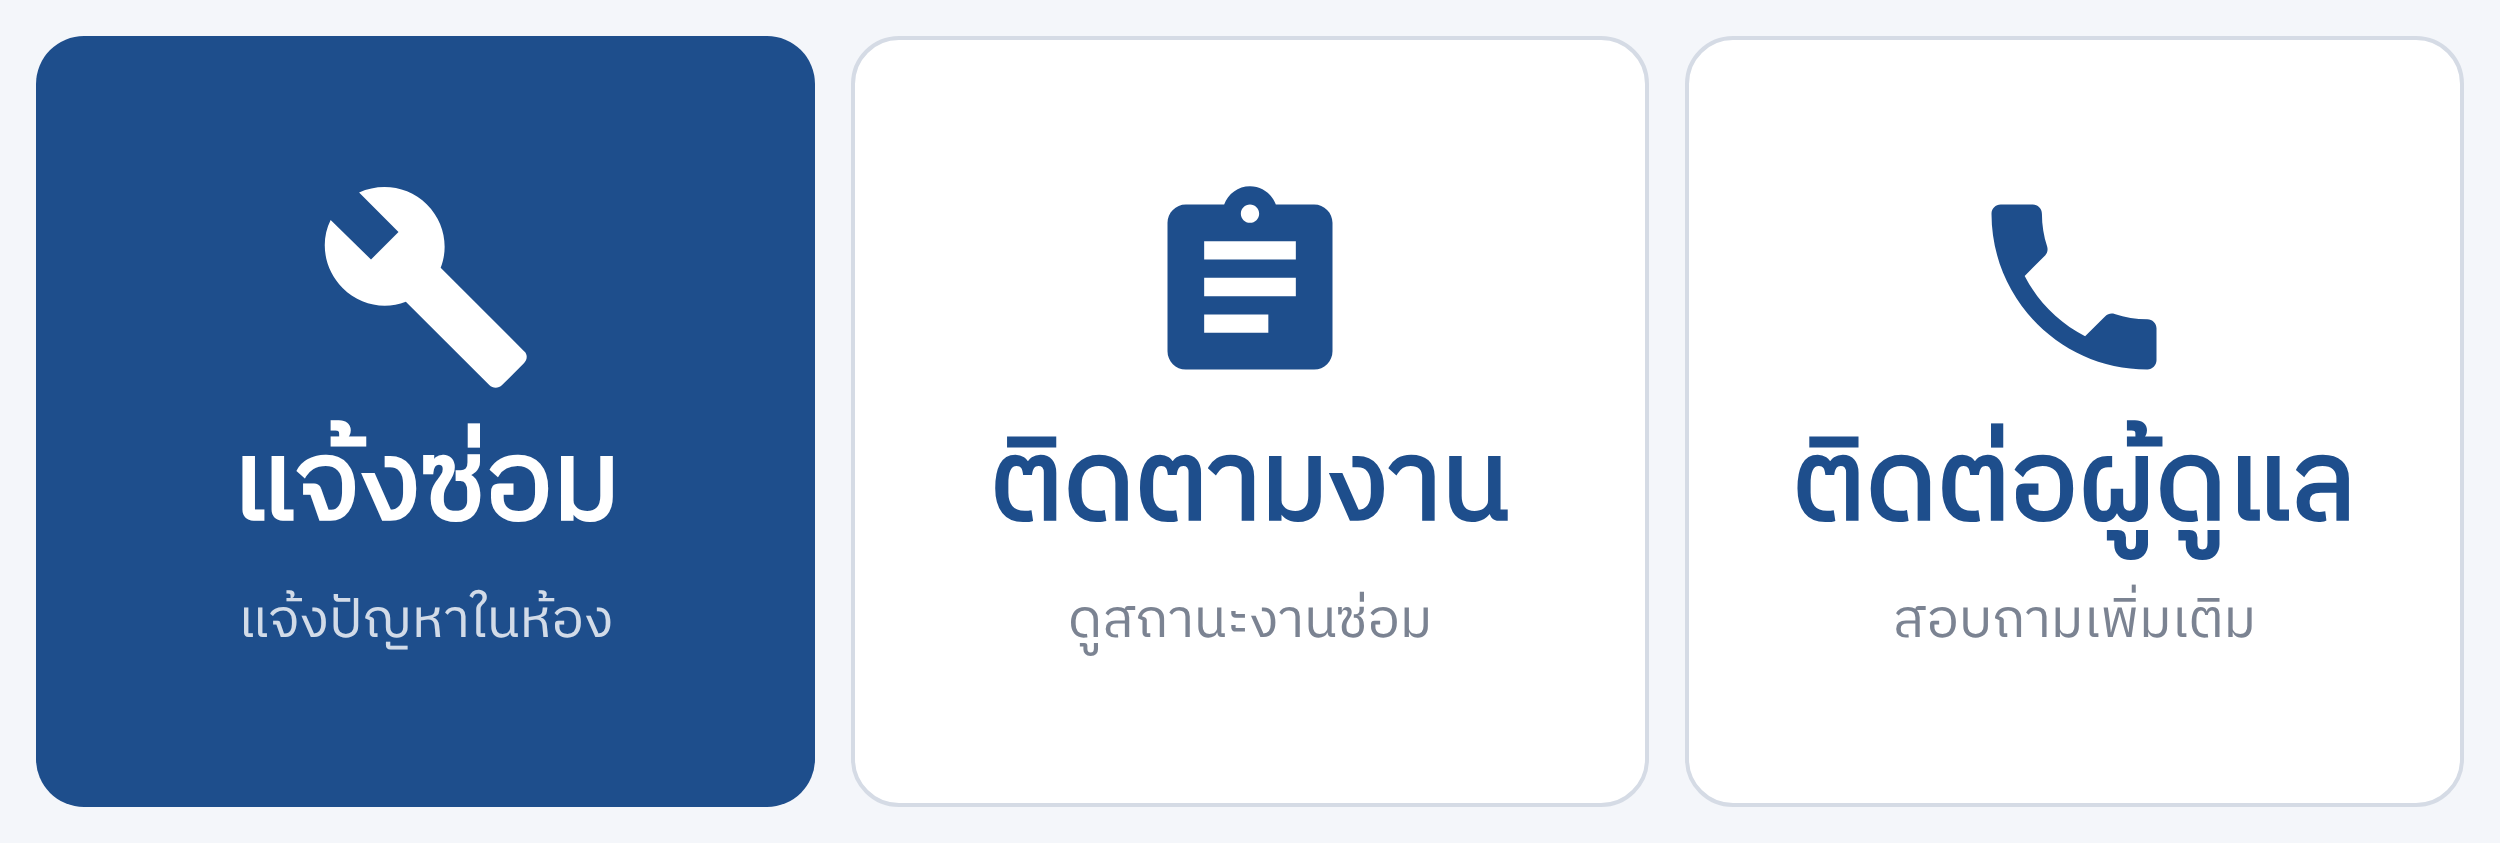
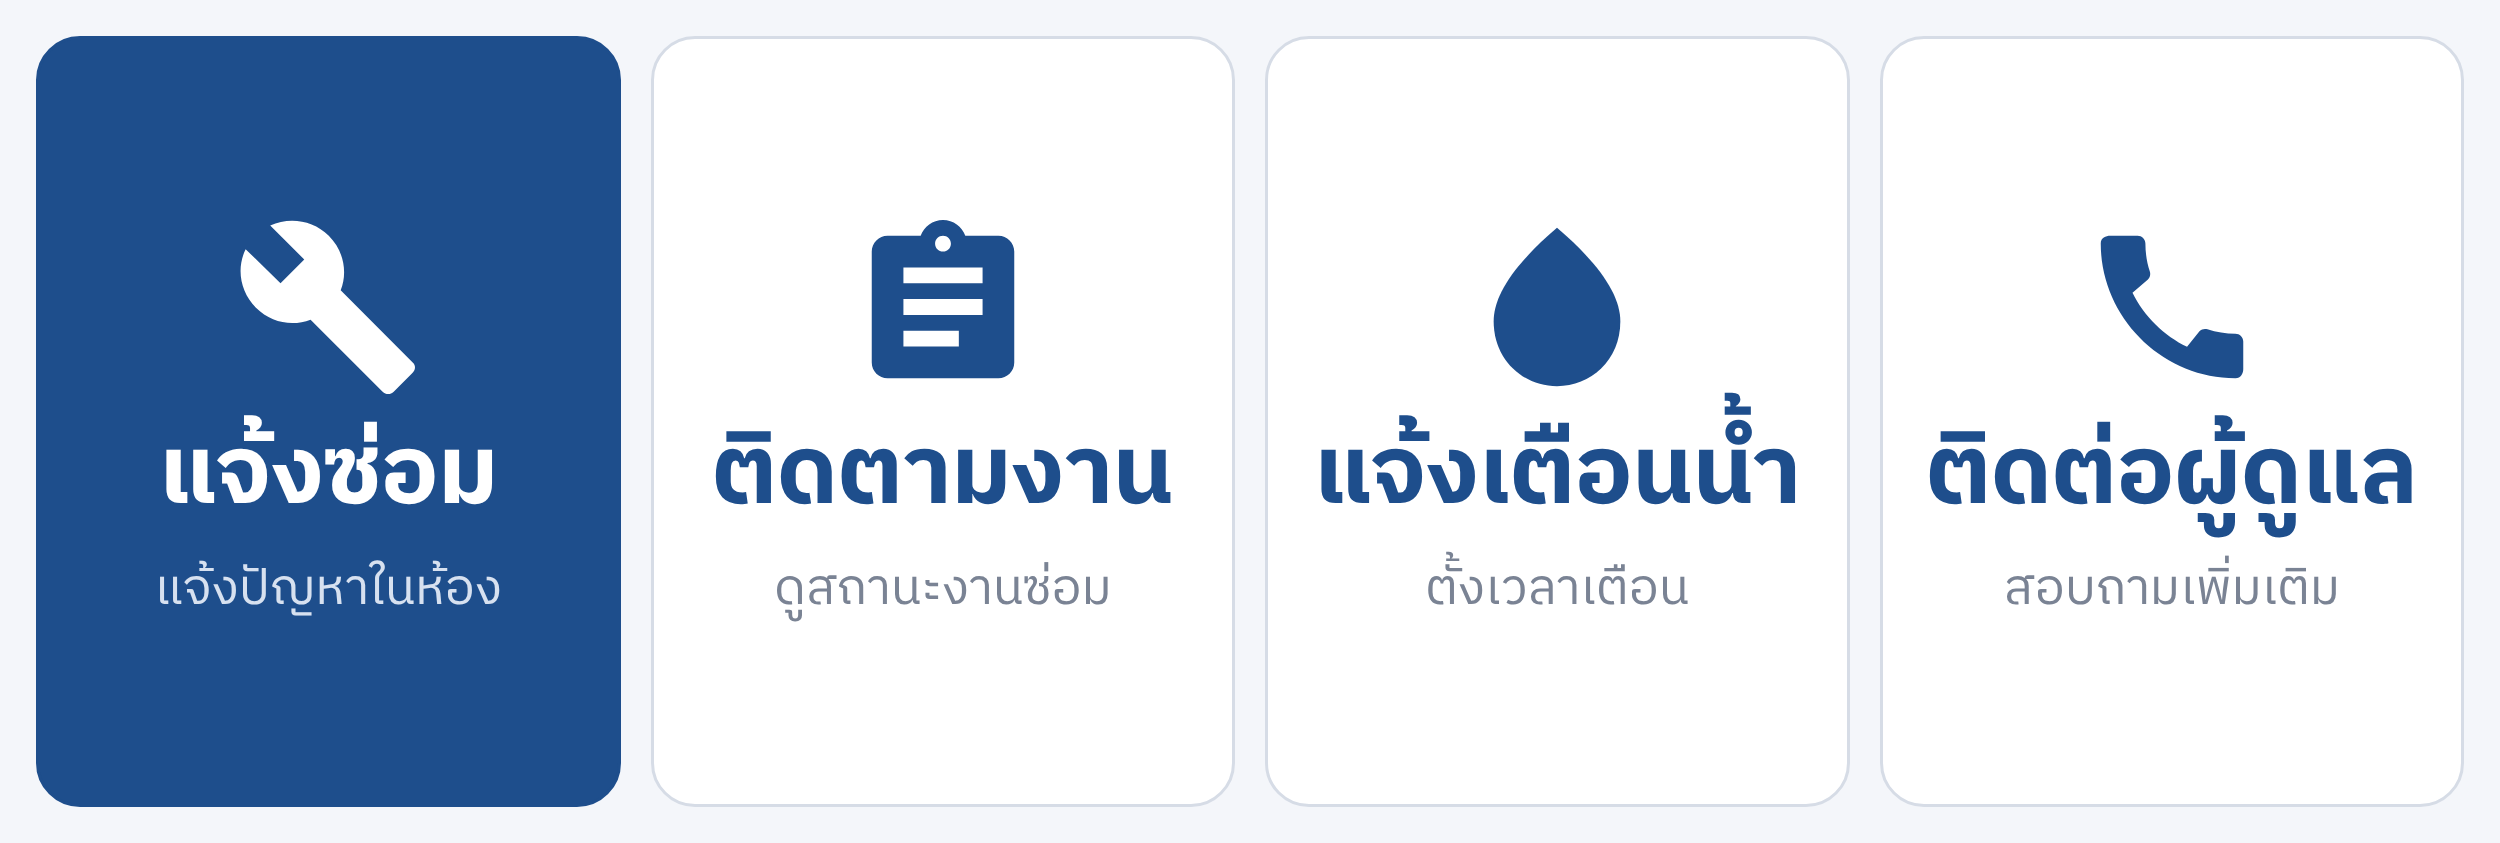
เมนู LINE หลังผูกห้อง: เพิ่มปุ่มแจ้งเตือนน้ำ (ตั้งเวลาเตือน)

diff --git a/supabase/functions/_shared/richmenu.js b/supabase/functions/_shared/richmenu.js
@@ -23,7 +23,7 @@ export const MENUS = {
   },
   [ALIAS.BOUND]: {
     image: 'rm-bound.png',
-    body: { size: { width: W, height: H }, selected: true, name: 'ผูกห้องแล้ว', chatBarText: 'เมนู', areas: areas(['แจ้งซ่อม', 'ติดตามงาน', 'ติดต่อผู้ดูแล']) },
+    body: { size: { width: W, height: H }, selected: true, name: 'ผูกห้องแล้ว', chatBarText: 'เมนู', areas: areas(['แจ้งซ่อม', 'ติดตามงาน', 'ตั้งแจ้งเตือนน้ำ', 'ติดต่อผู้ดูแล']) },
   },
 };
 
